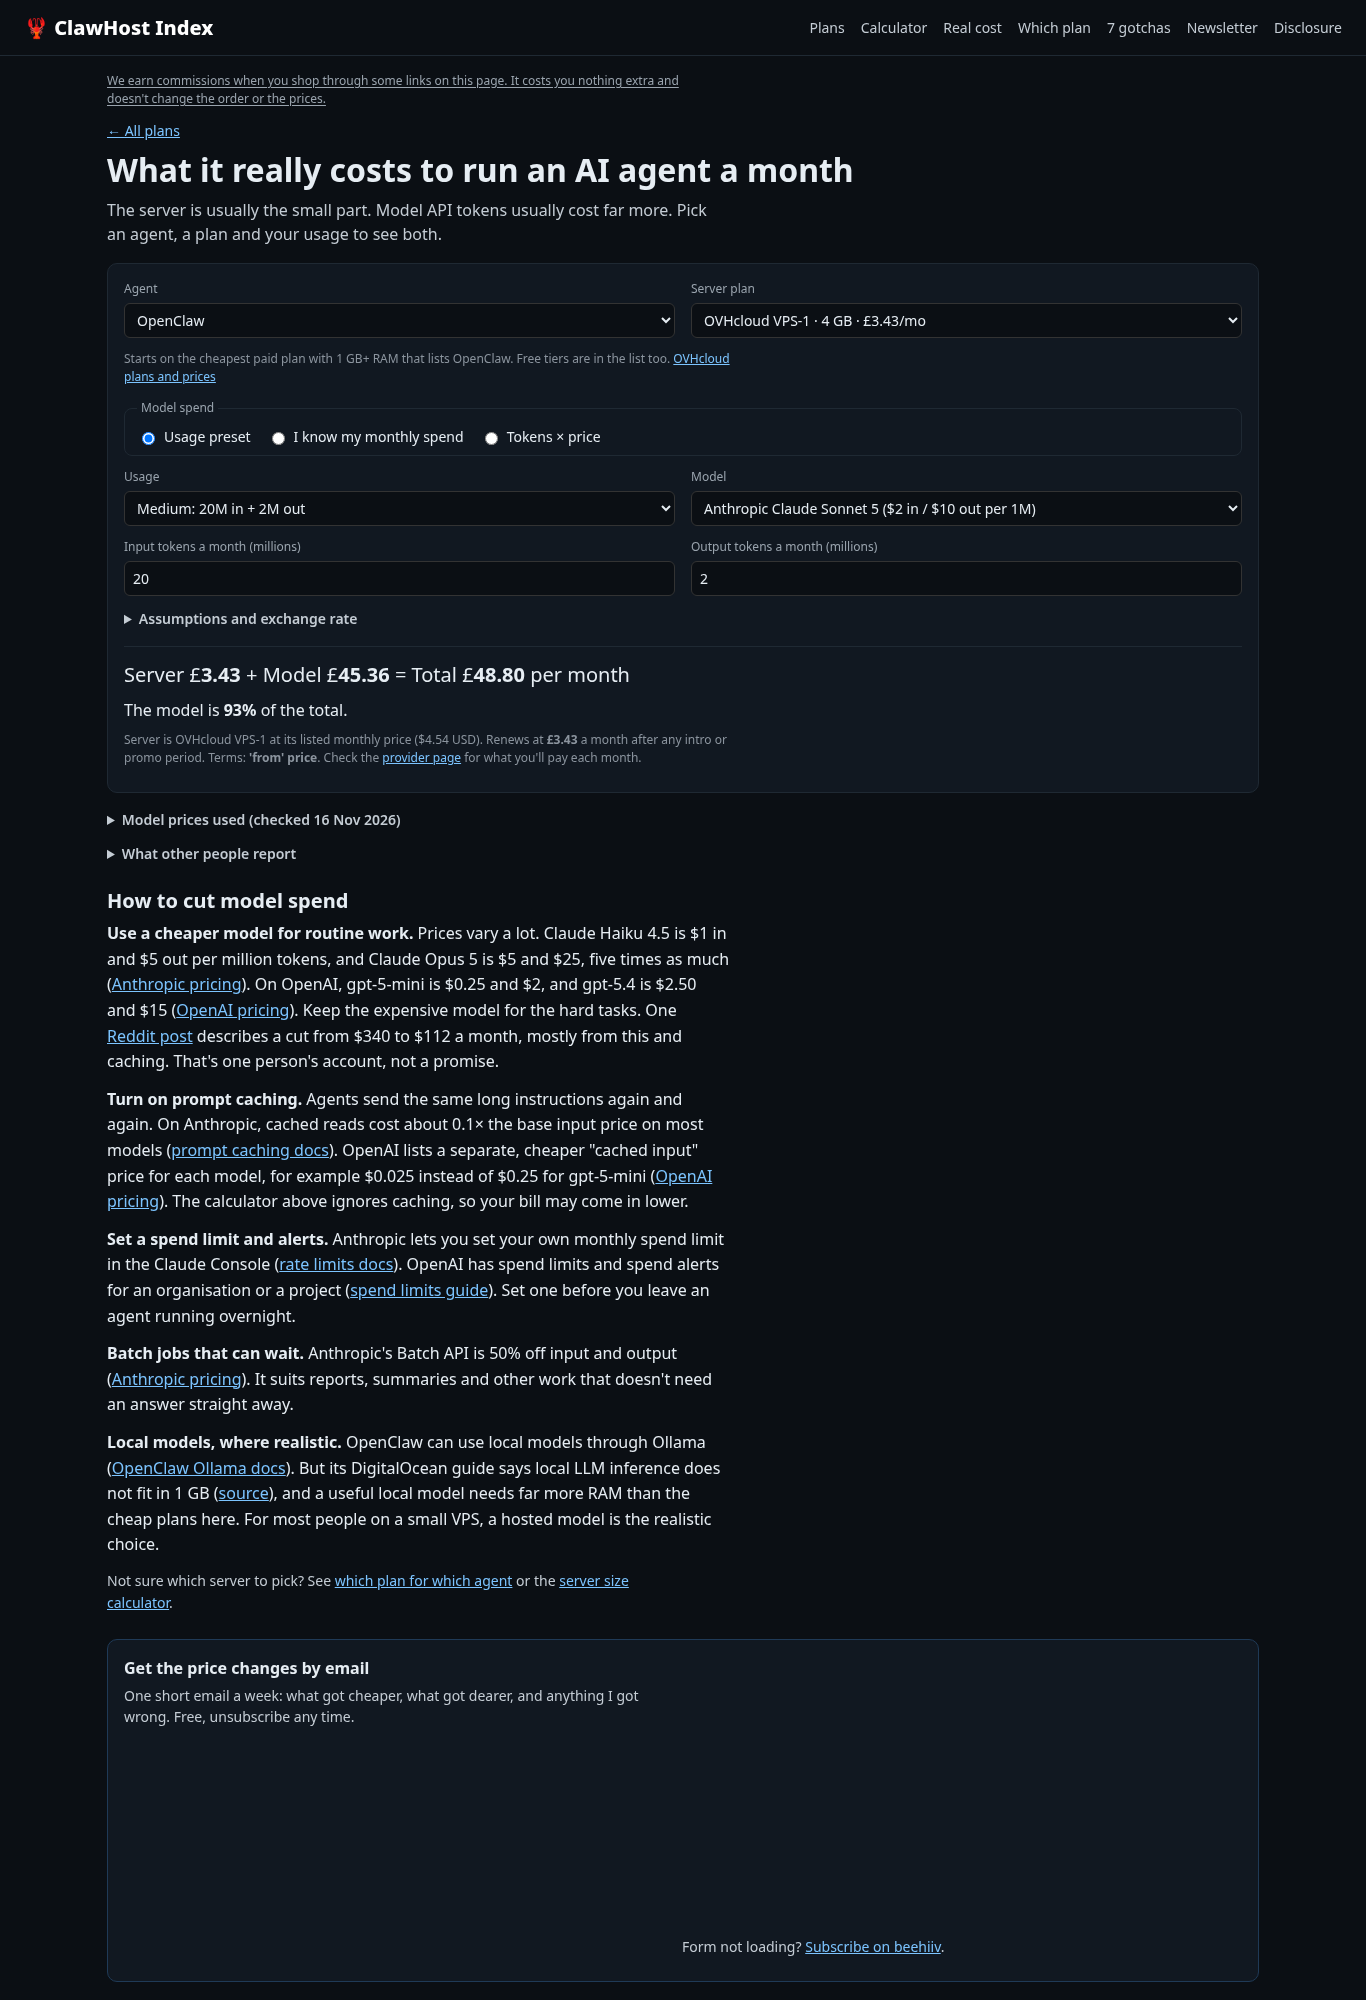
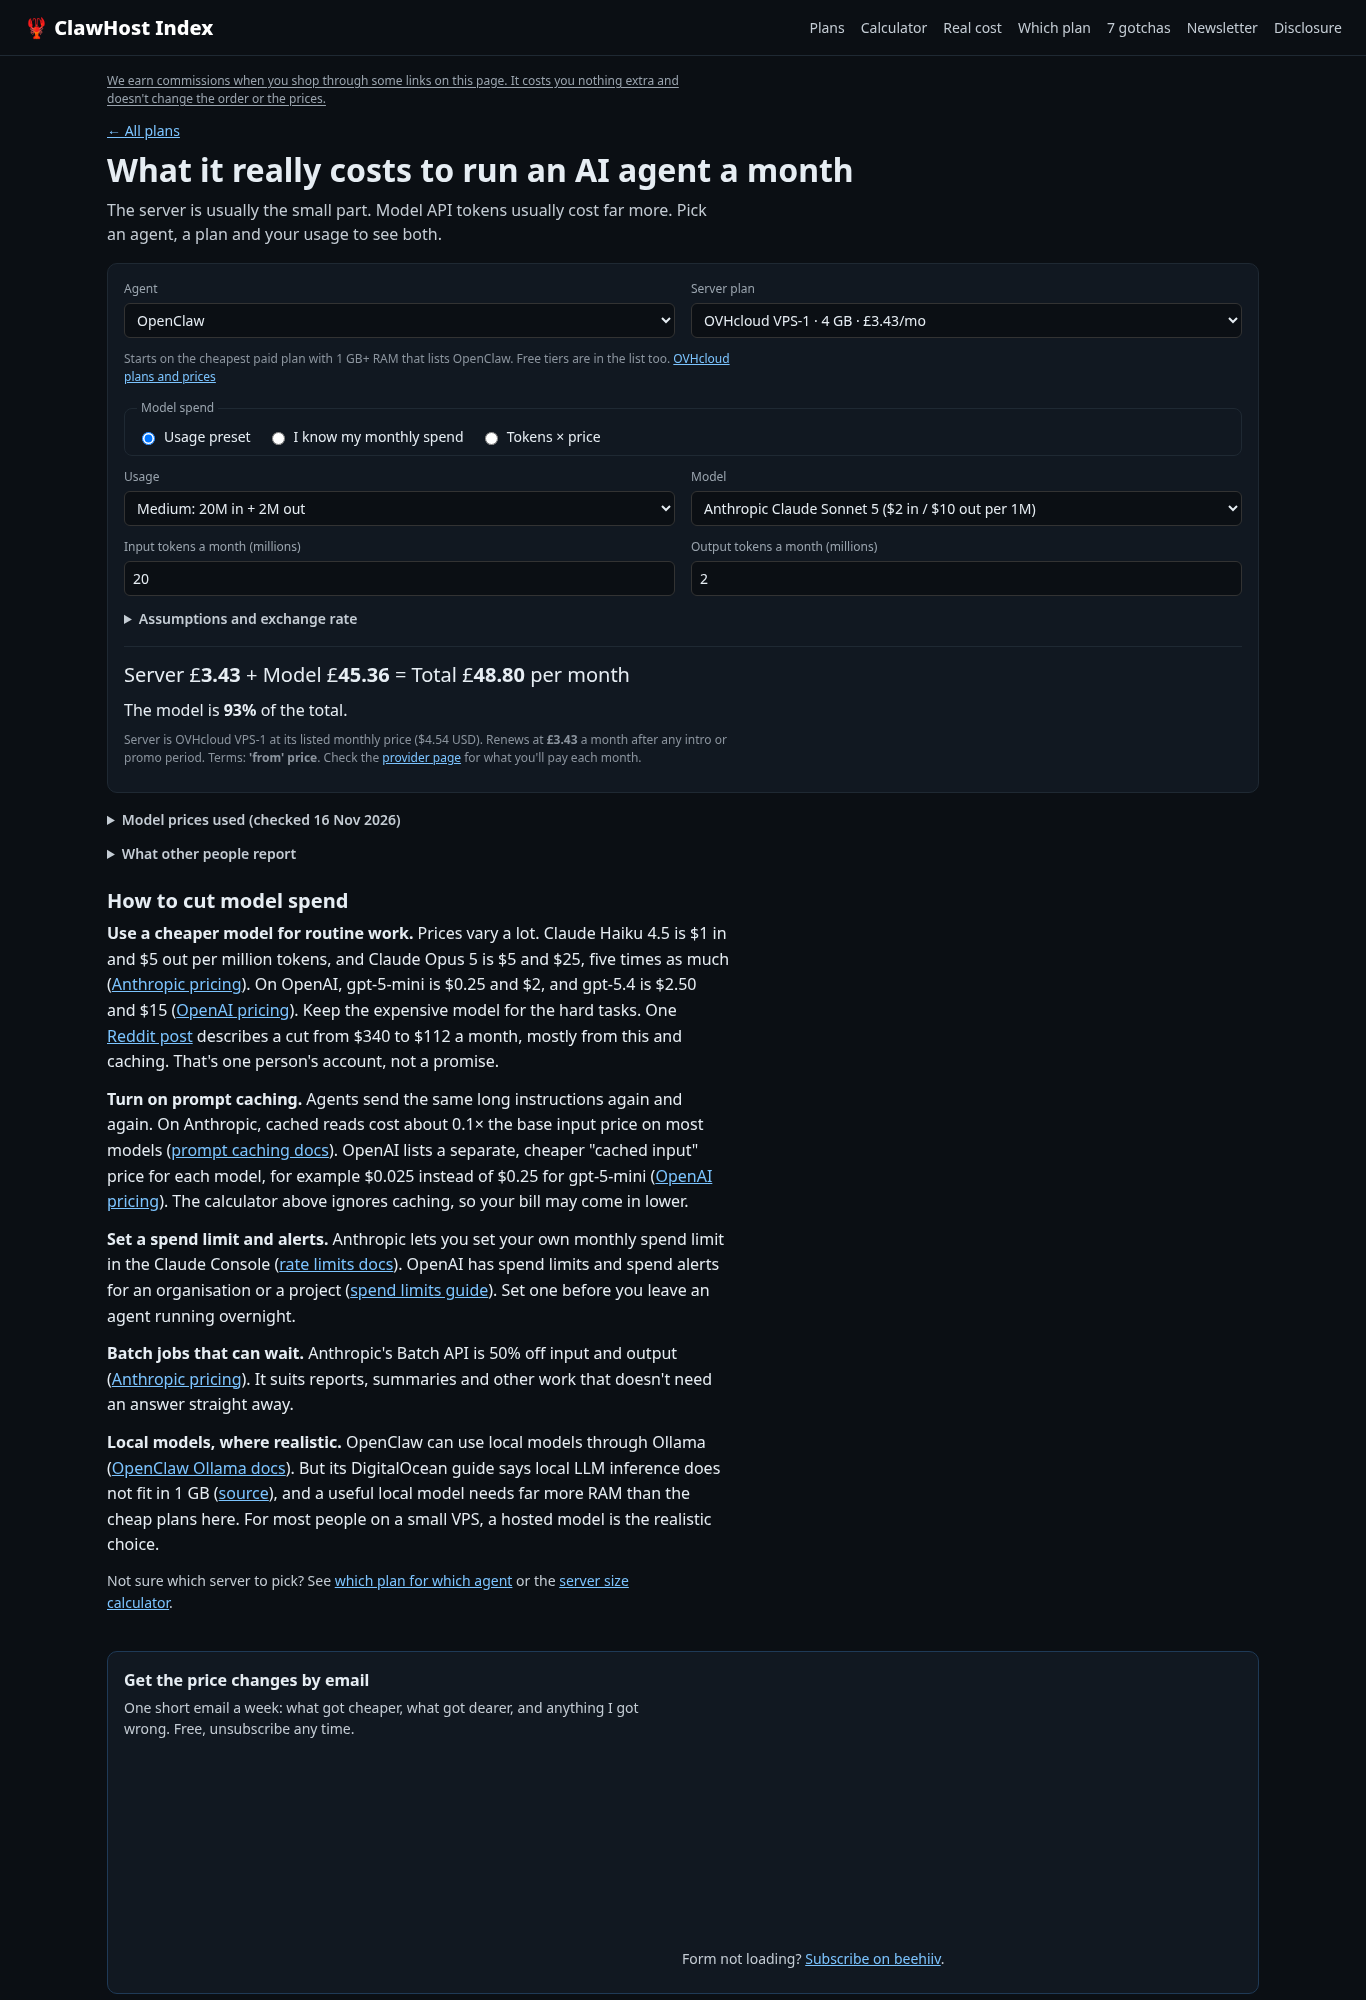
fix: stack signup box inside narrow prose columns

Changed region(s): [[0.0922, 0.806, 0.4612, 0.868], [0.4919, 0.961, 0.6764, 0.992]]

diff --git a/app/SignupBar.js b/app/SignupBar.js
@@ -6,26 +6,29 @@ import { SUBSCRIBE_URL } from "../lib/site";
 // the form + fallback. We cannot hide beehiiv's own iframe title from here.
 // On viewports too narrow for the embed's 80px padding, CSS shows a public-signup button.
 // Who makes this lives once in the footer, so it isn't repeated here.
+// .signup-wrap is the CSS query container: copy sits beside the form only when the bar is wide.
 export default function SignupBar({ variant = "full", id = "signup", showCopy = true }) {
   const full = variant === "full";
   const headId = `${id}-h`;
   const labelled = showCopy ? { "aria-labelledby": headId } : { "aria-label": "Subscribe to ClawHost Index Weekly" };
   return (
-    <section className={full ? "signup" : "signup signup-compact"} id={id} {...labelled}>
-      {showCopy && (
-        <div className="signup-copy">
-          {full
-            ? <h2 id={headId}>Get the price changes by email</h2>
-            : <p id={headId} className="signup-h">Get the price changes by email</p>}
-          <p>One short email a week: what got cheaper, what got dearer, and anything I got wrong. Free, unsubscribe any time.</p>
-          {full && <p className="gift">Also free: <a href="/gotchas/">7 hosting gotchas for running AI agents on a VPS</a>.</p>}
+    <div className="signup-wrap">
+      <section className={full ? "signup" : "signup signup-compact"} id={id} {...labelled}>
+        {showCopy && (
+          <div className="signup-copy">
+            {full
+              ? <h2 id={headId}>Get the price changes by email</h2>
+              : <p id={headId} className="signup-h">Get the price changes by email</p>}
+            <p>One short email a week: what got cheaper, what got dearer, and anything I got wrong. Free, unsubscribe any time.</p>
+            {full && <p className="gift">Also free: <a href="/gotchas/">7 hosting gotchas for running AI agents on a VPS</a>.</p>}
+          </div>
+        )}
+        <div className="signup-form">
+          <a className="btn signup-cta" href={SUBSCRIBE_URL} target="_blank" rel="noopener" aria-label="Subscribe on beehiiv (opens in a new tab)">Subscribe on beehiiv</a>
+          <BeehiivEmbed />
+          <p className="src signup-fallback">Form not loading? <a href={SUBSCRIBE_URL} target="_blank" rel="noopener">Subscribe on beehiiv</a>.</p>
         </div>
-      )}
-      <div className="signup-form">
-        <a className="btn signup-cta" href={SUBSCRIBE_URL} target="_blank" rel="noopener" aria-label="Subscribe on beehiiv (opens in a new tab)">Subscribe on beehiiv</a>
-        <BeehiivEmbed />
-        <p className="src signup-fallback">Form not loading? <a href={SUBSCRIBE_URL} target="_blank" rel="noopener">Subscribe on beehiiv</a>.</p>
-      </div>
-    </section>
+      </section>
+    </div>
   );
 }

diff --git a/app/globals.css b/app/globals.css
@@ -114,7 +114,9 @@ table.plans-pick td.c-spec,table.plans-provider td.c-spec{white-space:normal}
 .signup-form iframe{display:block;width:100% !important;max-width:560px !important;border:0;border-radius:8px}
 .signup:not(:has(.signup-copy)) .signup-form iframe{margin-inline:auto}
 .signup-fallback{margin:0}
-@media (min-width:960px){
+/* Side-by-side only when the bar itself is wide: inside .prose (68ch) it stays stacked. */
+.signup-wrap{container:signup/inline-size}
+@container signup (min-width:900px){
   .signup:has(.signup-copy){grid-template-columns:minmax(0,1fr) 560px;grid-template-areas:"copy form";column-gap:var(--sp-5);align-items:start}
 }
 .signup-cta{display:none}
